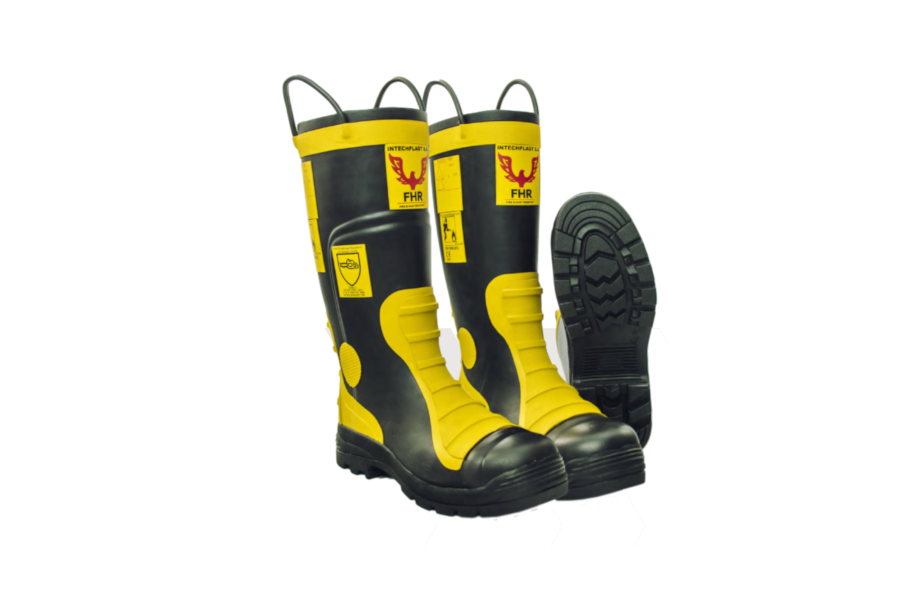
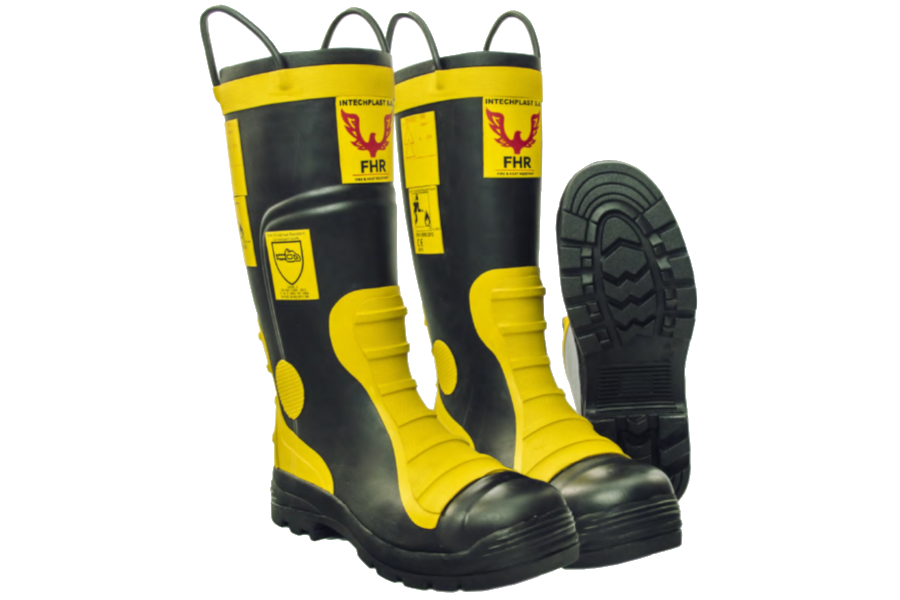
Center images from one column

diff --git a/index.html b/index.html
@@ -75,7 +75,7 @@
                 </div>
             </div>
             <div class="row js--wp-3">
-                <div class="col span-1-of-1 box">
+                <div class="col span-1-of-1 box box-1-of-1">
                     <img class="js--lightbox-open-gallery" data-destination="" src="resources/img/items/shoes/FHR003_FHR004_900x600.png" alt="Buty ochronne">
                     <h3>Buty OCHRONNE FHR003/FHR004</h3>
                     <div class="item-feature">
@@ -109,7 +109,7 @@
                 </div>                
             </div>
             <div class="row js--wp-3">
-                <div class="col span-1-of-1 box">
+                <div class="col span-1-of-1 box box-1-of-1">
                     <img class="js--lightbox-open-gallery" data-destination="" src="resources/img/items/shoes/FHR005_FHR006_900x600.png" alt="Buty ochronne">
                     <h3>BUTY OCHRONNE FHR005/FHR006</h3>
                     <div class="item-feature">
@@ -155,7 +155,7 @@
                 </div>                
             </div>
             <div class="row js--wp-3">
-                <div class="col span-1-of-1 box">
+                <div class="col span-1-of-1 box box-1-of-1">
                     <img class="js--lightbox-open-gallery" data-destination="" src="resources/img/items/shoes/FHR014_900x600.png" alt="Buty ochronne">
                     <h3>BUTY OCHRONNE FHR 014</h3>
                     <div class="item-feature">
@@ -268,12 +268,14 @@
                     <img class="js--lightbox-open-gallery" data-destination="" src="resources/img/items/shoes/ButySpecjalneStrazackie_998_51_900x600.png" alt="Buty specjalne strażackie 998 51">
                     <h3>Buty Strażackie 998</h3>
                     <div class="item-feature">
-                        WIERZCH: skóra bydl. wodoodporna/żaroodporna 
-                        PODSZEWKA: dzianina + membrana sympatex 
-                        PODESZWA 998-41: guma (podpodeszwa paraaramidowa) 
-                        PODESZWA 99851: guma z wkładką metalową 
-                        SYSTEM MONTAŻU: klejony  
-                        NUMERACJA: 38 - 48 
+                        <ul>
+                            <li>WIERZCH: skóra bydl. wodoodporna/żaroodporna</li>
+                            <li>PODSZEWKA: dzianina + membrana sympatex</li>
+                            <li>PODESZWA 998-41: guma (podpodeszwa paraaramidowa)</li>
+                            <li>PODESZWA 99851: guma z wkładką metalową</li>
+                            <li>SYSTEM MONTAŻU: klejony</li>
+                            <li>NUMERACJA: 38 - 48</li>
+                        </ul>
                     </div>
                 </div>                
                 <div class="col span-1-of-3 box">
@@ -290,10 +292,6 @@
                     </div>
                 </div>                
                 <div class="col span-1-of-3 box">
-                    <!-- <img class="js--lightbox-open-gallery" data-destination="" src="resources/img/buty.jpg" alt="Buty ochronne">
-                    <h3></h3>
-                    <div class="item-feature">
-                    </div> -->
                 </div>                
             </div>
             <div class="row js--wp-3">
@@ -327,7 +325,7 @@
                 </div>                
             </div>
             <div class="row js--wp-3">
-                <div class="col span-1-of-1 box">
+                <div class="col span-1-of-1 box box-1-of-1">
                     <img class="js--lightbox-open-gallery" data-destination="" src="resources/img/items/helmets/HelmetTytanMaxHTM102.png" alt="Hełm Tytan Max HTM 102">
                     <h3>Hełm Tytan Max HTM 102</h3>
                     <div class="item-feature">

diff --git a/resources/css/style.css b/resources/css/style.css
@@ -312,6 +312,13 @@ header {
     cursor: pointer;
 }
 
+.box-1-of-1 img {
+    width: 65%;
+    display: block;
+    margin-left: auto;
+    margin-right: auto;
+}
+
 .box ul {
     margin-bottom: 15px;
 }
